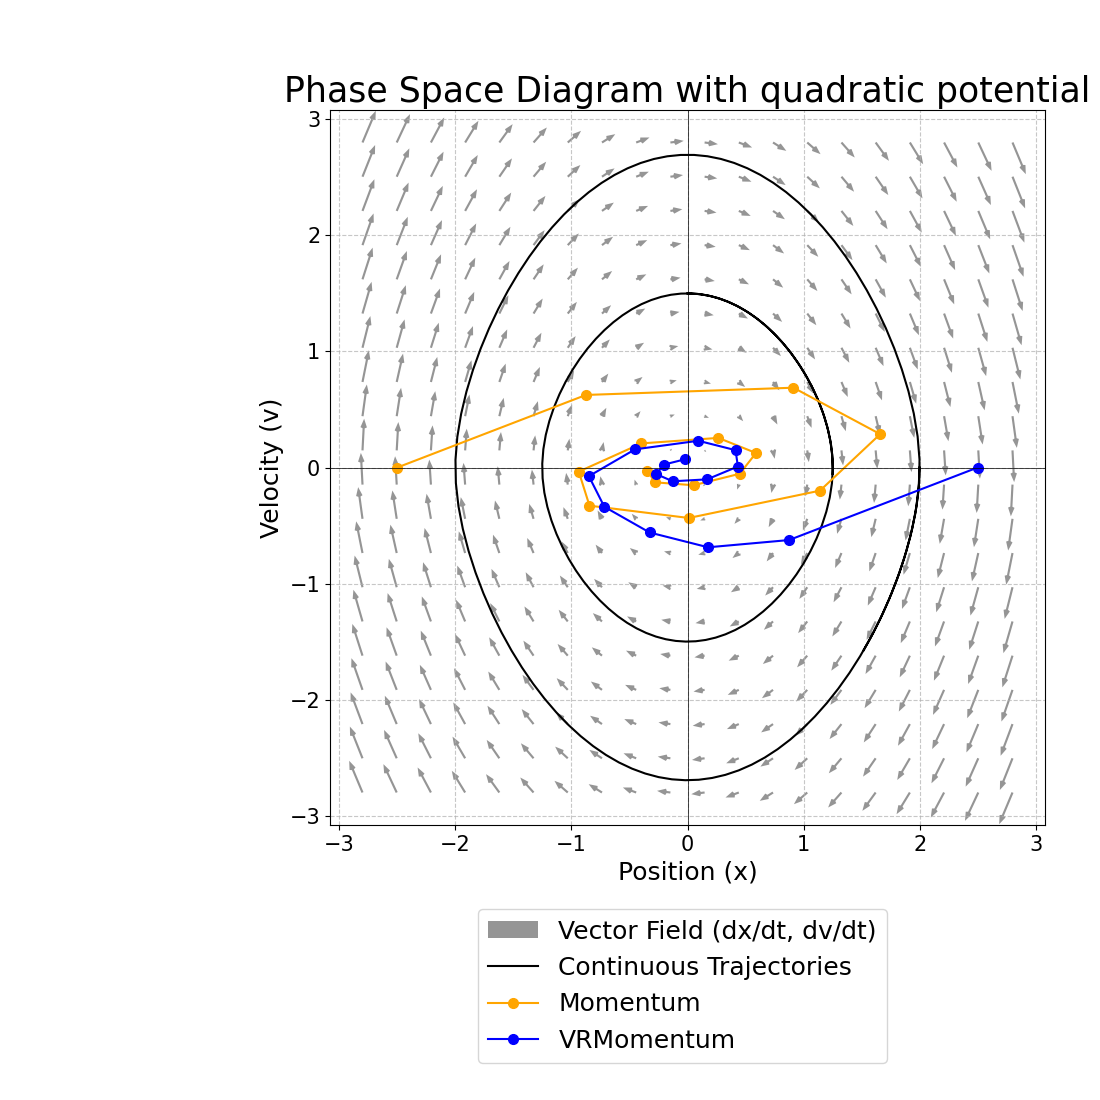
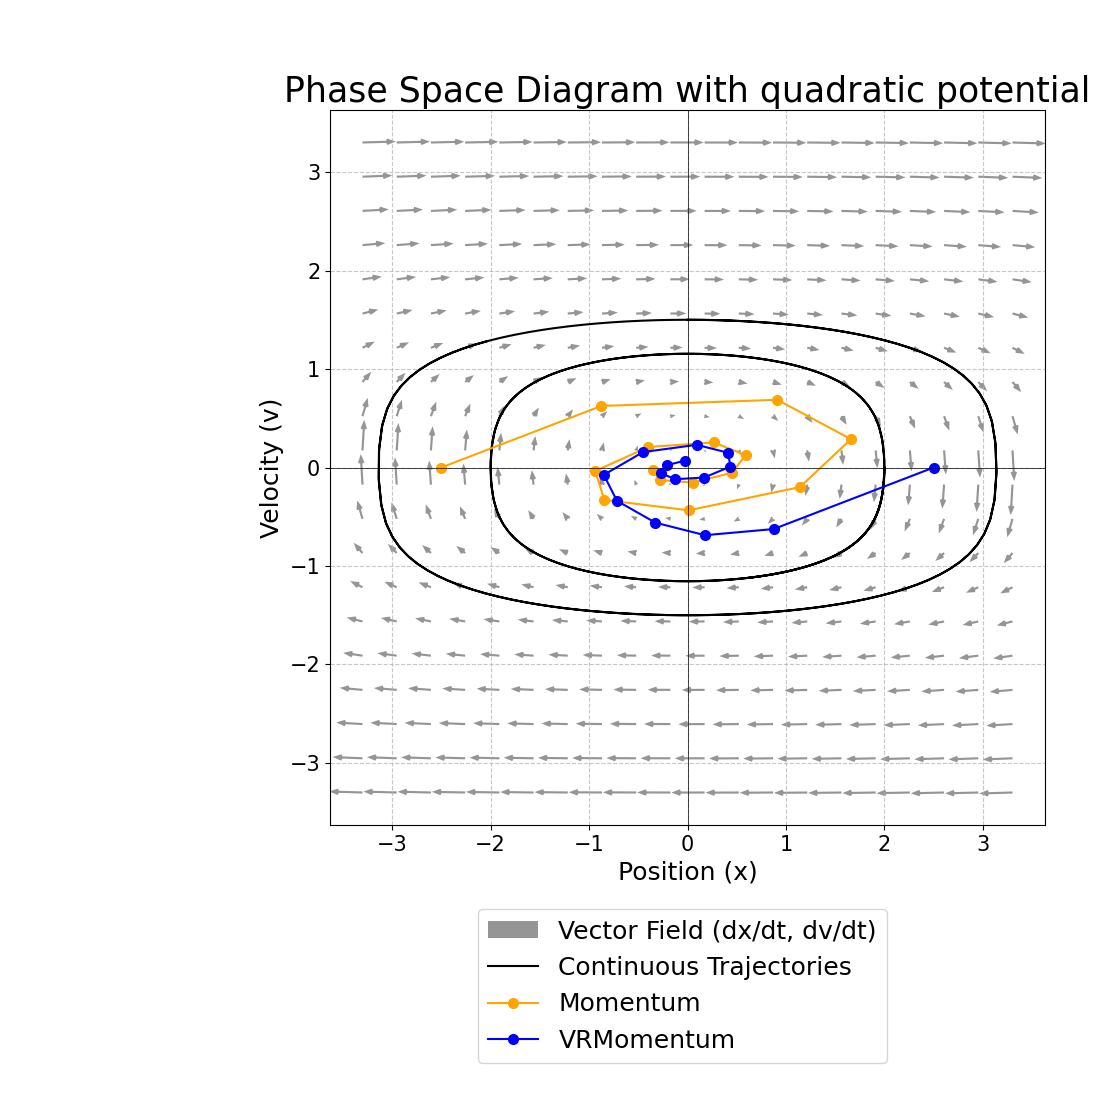
corrected figure

Changed region(s): [[0.2782, 0.0927, 0.9582, 0.7727], [0.2782, 0.0927, 0.3091, 0.1236]]

diff --git a/sho_phase_space_plot.py b/sho_phase_space_plot.py
@@ -6,7 +6,7 @@ import math
 OMEGA_SQ = 1.0      # ω^2 = k/m for SHO (used for Hamiltonian contours & optimization)
 M = 1.0             # Mass for Hamiltonian optimization. With M=1, H = 0.5*ω²*x² + 0.5*v²
 DT_EULER = 0.1      # Time step for Euler integration
-N_STEPS_EULER = 100 # Number of steps for Euler trajectories
+N_STEPS_EULER = 200 # Number of steps for Euler trajectories
 LR = 0.26*10   # Learning rate for all
 BETA_MOMENTUM = 0.75 # Momentum factor (β)
 N_STEPS_OPTIM = 14  # Number of steps for optimization trajectories
@@ -20,44 +20,11 @@ LEGEND_FONTSIZE = 18
 # --- End Font Size Configuration ---
 
 # --- 1. Vector Field Definition (Quartic Kinetic Oscillator) ---
-def quartic_kinetic_vector_field(x, p):
-    """
-    Vector field for L = ½ m x_dot^2 + ¼ α x_dot^4 − ½ k x^2
-    
-    Parameters:
-      x     : position (can be array)
-      p     : conjugate momentum (p = m*v + α*v^3) (can be array)
-    
-    Returns:
-      dx_dt : ẋ = real root of α v^3 + m v − p = 0 (array)
-      dp_dt : ṗ = −k * x (array)
-    """
+def quartic_kinetic_vector_field(x, v):
+    dv_dt= -x/(1+3*v*v)
+    dx_dt= v
 
-    m, alpha, k = 1.0, 1.0, 1.0 # System parameters for the quartic oscillator
-
-    # Cardano parameters to solve α v^3 + m v − p = 0 for v (which is dx_dt)
-    Q = p / (2 * alpha)
-    R_cubed = (m / (3 * alpha)) ** 3
-
-    # Discriminant term: (p/(2*alpha))^2 + (m/(3*alpha))^3
-    # This should be non-negative for this cubic form to have one real root.
-    sqrt_D_arg = Q * Q + R_cubed
-    D_val = np.sqrt(np.maximum(0, sqrt_D_arg)) # Use np.maximum for robustness
-
-    # Cube-root terms for Cardano's solution
-    u_arg = Q + D_val
-    v_arg = Q - D_val
-    
-    u = np.cbrt(u_arg) # np.cbrt gives real cube root
-    v = np.cbrt(v_arg)
-
-    # ẋ (velocity) is the sum of these two cube roots
-    dx_dt = u + v
-
-    # ṗ from the quadratic potential part of Lagrangian
-    dp_dt = -k * x
-
-    return dx_dt, dp_dt
+    return dx_dt, dv_dt
 
 # --- 2. RK4 Method for Trajectories ---
 def rk4_step(x, p, dt, vector_field_func):
@@ -143,8 +110,15 @@ def dynamic_momentum_step(x_curr, v_curr, mom_x_prev, mom_v_prev, lr, beta, m_pa
     # v_next = v_curr - mom_v_curr
     # return x_next, v_next, mom_x_curr, mom_v_curr
 
+
+    # correct ones!
     v_next= beta*v_curr -(1-beta)* x_curr
     x_next= x_curr +lr/(1+ 4*v_curr*v_curr)* v_next
+
+
+    # wrong ones!!
+    #v_next= beta*v_curr - lr/(1+ 4*v_curr*v_curr)* x_curr
+    #x_next= x_curr +lr* v_next
     print("Placeholder: dynamic_momentum_step called. Please implement.")
     return x_next, v_next, mom_x_prev, mom_v_prev # Return current to avoid error
 
@@ -184,7 +158,7 @@ def compute_optimizer_trajectory(x0, v0, optimizer_type, lr, n_steps, m_param, o
 def plot_phase_space_and_optimization(file_name=PLOT_FILENAME):
     """Creates and saves the combined plot."""
     # Define grid for vector field
-    imrange = 2.8
+    imrange = 3.3
     x_range = np.linspace(-imrange, imrange, 20)
     p_range = np.linspace(-imrange, imrange, 20) 
     X_grid, P_grid = np.meshgrid(x_range, p_range) 
